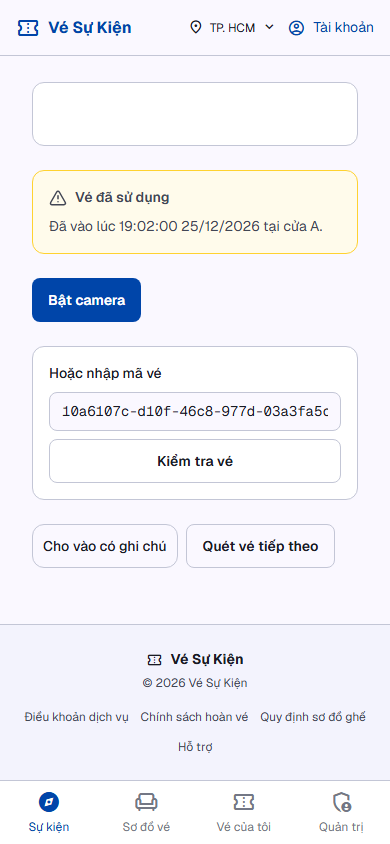
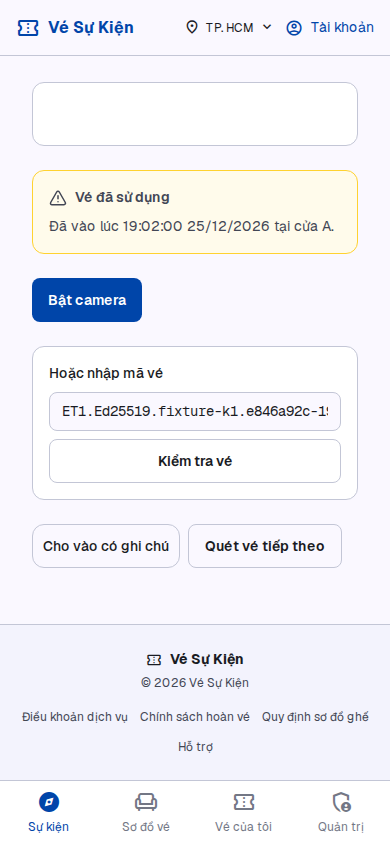
docs(S-31): record signed QR acceptance and device gates

diff --git a/docs/S31_EVIDENCE.md b/docs/S31_EVIDENCE.md
@@ -2,30 +2,43 @@
 
 Dependency S-30 signed `d423fa8d2e5143b07cd7158985776ef8ca740ce8` đã tích hợp. S-30 chưa merge: gate camera thật/ngoài trời còn thiếu. S-31 giữ Draft, chưa nghiệm thu toàn bộ, chưa merge/deploy.
 
+CI [37909249448](https://github.com/TTCS-T926-K19C5-N2/thudemo/actions/runs/37909249448) PASS trên **8e6374d45574ab06ed08e1d81619aa0030401526**:46 HTTP checks/50 races/27 browser checks. JSON và ảnh mới bên dưới cùng sourceSha này; commit bàn giao chỉ cập nhật evidence/docs, final-head CI/review được ghi ở PR64.
+
 ## Ma trận AC/NFR → implementation → test → kết quả → file/link → SHA
 
-| AC/NFR                                    | Implementation                         | Test mới                                                                                     | Kết quả                                                 | File/link                                  | Source SHA                           |
-| ----------------------------------------- | -------------------------------------- | -------------------------------------------------------------------------------------------- | ------------------------------------------------------- | ------------------------------------------ | ------------------------------------ |
-| AC1: A19:02 → B từ chối/metadata đầu      | lock NORMAL/firstAdmission             | real HTTP/session B, DB first/time check rồi fixture lịch sử                                 | PASS local                                              | verify-s31-http.mjs, CI artifact           | candidate merge; final CI SHA ở PR64 |
-| AC2: chỉ một máy hợp lệ                   | row lock + partial UNIQUE              | 50 vé mới ×2 API OS process/session/cửa, đọc DB mỗi lượt                                     | PASS local                                              | HTTP driver/report                         | như trên                             |
-| AC3: reason/tên nhân viên/lần vào bổ sung | approved scoped capability + EXCEPTION | same action concurrent2API, đúng1entry, identity/name/timeDB; first không đổi                | PASS local                                              | HTTP driver, PO decision                   | như trên                             |
-| Chữ ký NORMAL/EXCEPTION                   | cùng ScannerCryptoService              | unsigned real UUID, version/alg/kid/signature/payload sai; ticketId client; wrong showtime   | PASS local, không thêm history                          | HTTP driver; S-30 crypto unit13            | như trên                             |
-| Rotation/restart                          | persistent keys + public key ring      | new k2 QR NORMAL+EXCEPTION; old k1 vẫn verified/used sau restart                             | PASS local                                              | HTTP driver                                | như trên                             |
-| Retry/bấm đúp/lost response               | unique actor/request fingerprint       | same request concurrent; changed reason409; browser fault injection                          | HTTP PASS local; browser mới xem CI                     | drivers                                    | final head check ở PR                |
-| Rollback/consistency                      | ledger+state cùng TX                   | trigger failure sau insert; ledger0/stateNULL; direct duplicate rejected                     | PASS local                                              | HTTP driver/ledger migration               | như trên                             |
-| Permission/privacy                        | role+session+grant trước metadata      | unassigned ADMIN, wrong gate, BUYER, no/expired session, revoked override, forged actor/time | PASS local                                              | HTTP driver                                | như trên                             |
-| Eligibility/sau ngoại lệ                  | PAID + signed context + legacy veto    | unpaid/cancelled/unknown/wrong showtime; normal sau EXCEPTION vẫn409/first giữ nguyên        | PASS local                                              | HTTP driver                                | như trên                             |
-| Migration/compensation                    | 22migration thật/guard                 | deploy riêng, populated guard refuses                                                        | PASS deploy/guard; empty rollback chưa kiểm             | SQL template/HTTP driver                   | như trên                             |
-| V1 desktop/mobile/dialog/wait/error       | scanner dependency + existing Dialog   | browser real proxy/API/PG, 2staff contexts, focus/trap/contrast/touch, lost response retry   | Đợi CI exact head; evidence UUID cũ không được tái dùng | verify-s31-browser.mjs / s31-admission.yml | final head CI ở PR                   |
-| Camera vật lý / ngoài trời                | camera hiện hữu                        | chưa có người kiểm trên signed revision                                                      | CHƯA KIỂM — gate                                        | hướng dẫn dưới                             | —                                    |
-| Staging/deploy                            | không deploy                           | chưa chạy                                                                                    | CHƯA KIỂM                                               | —                                          | —                                    |
+| AC/NFR                                    | Implementation                         | Test mới                                                                                     | Kết quả                                     | File/link                                                         | Source SHA             |
+| ----------------------------------------- | -------------------------------------- | -------------------------------------------------------------------------------------------- | ------------------------------------------- | ----------------------------------------------------------------- | ---------------------- |
+| AC1: A19:02 → B từ chối/metadata đầu      | lock NORMAL/firstAdmission             | real HTTP/session B, DB first/time check rồi fixture lịch sử                                 | PASS local                                  | verify-s31-http.mjs, [HTTP JSON](../evidence/s31/http-proof.json) | 8e6374d                |
+| AC2: chỉ một máy hợp lệ                   | row lock + partial UNIQUE              | 50 vé mới ×2 API OS process/session/cửa, đọc DB mỗi lượt                                     | PASS local                                  | HTTP driver/report                                                | 8e6374d                |
+| AC3: reason/tên nhân viên/lần vào bổ sung | approved scoped capability + EXCEPTION | same action concurrent2API, đúng1entry, identity/name/timeDB; first không đổi                | PASS local                                  | HTTP driver, PO decision                                          | 8e6374d                |
+| Chữ ký NORMAL/EXCEPTION                   | cùng ScannerCryptoService              | unsigned real UUID, version/alg/kid/signature/payload sai; ticketId client; wrong showtime   | PASS local, không thêm history              | HTTP driver; S-30 crypto unit13                                   | 8e6374d                |
+| Rotation/restart                          | persistent keys + public key ring      | new k2 QR NORMAL+EXCEPTION; old k1 vẫn verified/used sau restart                             | PASS local                                  | HTTP driver                                                       | 8e6374d                |
+| Retry/bấm đúp/lost response               | unique actor/request fingerprint       | same request concurrent; changed reason409; browser fault injection                          | PASS local HTTP / CI HTTP+browser           | drivers                                                           | 8e6374d; final CI ở PR |
+| Rollback/consistency                      | ledger+state cùng TX                   | trigger failure sau insert; ledger0/stateNULL; direct duplicate rejected                     | PASS local                                  | HTTP driver/ledger migration                                      | 8e6374d                |
+| Permission/privacy                        | role+session+grant trước metadata      | unassigned ADMIN, wrong gate, BUYER, no/expired session, revoked override, forged actor/time | PASS local                                  | HTTP driver                                                       | 8e6374d                |
+| Eligibility/sau ngoại lệ                  | PAID + signed context + legacy veto    | unpaid/cancelled/unknown/wrong showtime; normal sau EXCEPTION vẫn409/first giữ nguyên        | PASS local                                  | HTTP driver                                                       | 8e6374d                |
+| Migration/compensation                    | 22migration thật/guard                 | deploy riêng, populated guard refuses                                                        | PASS deploy/guard; empty rollback chưa kiểm | SQL template/HTTP driver                                          | 8e6374d                |
+| V1 desktop/mobile/dialog/wait/error       | scanner dependency + existing Dialog   | browser real proxy/API/PG, 2staff contexts, focus/trap/contrast/touch, lost response retry   | PASS CI27 checks, console/runtime0          | verify-s31-browser.mjs / s31-admission.yml                        | 8e6374d; final CI ở PR |
+| Camera vật lý / ngoài trời                | camera hiện hữu                        | chưa có người kiểm trên signed revision                                                      | CHƯA KIỂM — gate                            | hướng dẫn dưới                                                    | —                      |
+| Staging/deploy                            | không deploy                           | chưa chạy                                                                                    | CHƯA KIỂM                                   | —                                                                 | —                      |
 
-Local candidate: DB riêng `127.0.0.1:15442/s31_signed_qr`, Redis16392; API3061/3062;22 migration deploy thật. 46 checks/50 races/151 measurements, p95≈34.11ms/max≈52.12ms loopback. Không thay staging/4G/camera hay NFR T-31. Node24.21.0/pnpm10.15.1. Build/lint/typecheck/unit228 PASS;4 warning cũ. Full integration dùng DB regression riêng15432 do task này tạo; xem kết quả exact head/CI ở PR.
+Local candidate: DB riêng `127.0.0.1:15442/s31_signed_qr`, Redis16392; API3061/3062;22 migration deploy thật. 46 checks/50 races/151 measurements, p95≈34.11ms/max≈52.12ms loopback. Không thay staging/4G/camera hay NFR T-31. Node24.21.0/pnpm10.15.1. Build/lint/typecheck/unit228 PASS;4 warning cũ. Full integration84 tests PASS trên DB regression riêng15432 do task này tạo, không dùng DB của task khác.
 
-Private keys/cookie fixtures ngoài checkout; artifact chỉ sanitized JSON/PNG. `evidence/s31/browser-proof.json` và ảnh từ59314d1 là lịch sử UUID cũ, không chứng minh contract mới. Candidate storage research vẫn tách biệt. HTTP report mới chứa sourceSha/driver hash; CI artifact đặt tên theo headSHA, không gọi working-tree report là exact committed test.
+Private keys/cookie fixtures ngoài checkout; artifact chỉ sanitized JSON/PNG. JSON/ảnh hiện tại đã thay bằng artifact ký thật8e6374d, giữ raw bytes/sourceSha. Evidence UUID59314d1 vẫn truy cập qua lịch sử Git, không dùng nghiệm thu mới. Candidate storage research vẫn tách biệt. HTTP report mới chứa sourceSha/driver hash; [HTTP JSON](../evidence/s31/http-proof.json) đặt tên theo headSHA, không gọi working-tree report là exact committed test.
 
 ## Tái chạy và kiểm thiết bị
 
 Migrate/generate/build trên đúng DB/Redis test riêng. Chạy HTTP driver với S31_FIXTURE_KEY_DIR và S31_PRIVATE_FIXTURE_FILE ngoài Git. CI dựng2API thật rồi web3060 proxy3061; driver browser dùng fixture phiên đã tạo, delay/abort chỉ là fault injection trên response thật.
 
 Camera gate: dùng thiết bị thật trên secure context với session được cấp suất/cửa. Mở QR ký của vé PAID thật qua trang đơn chủ vé; quay camera quét, kiểm ghế/cửa/time sau commit, đổi cửa quét lại metadata đầu, invalid/unsigned bị từ chối, mất mạng không xanh, >3s chờ. Thử dưới ánh sáng ngoài trời đọc text/icon và thao tác. Ghi thiết bị/OS/browser, SHA, điều kiện ánh sáng, kết quả/ảnh không cookie/QR khách. Ảnh/video fixture, mobile viewport hoặc camera giả không thay bằng chứng này.
+
+## Browser / audit
+
+![Desktop vé dùng](../evidence/s31/desktop-used.png)
+![Mobile vé dùng](../evidence/s31/mobile-used.png)
+![Mobile dialog](../evidence/s31/mobile-dialog.png)
+![Ngoại lệ](../evidence/s31/desktop-exception.png)
+
+Đã đọc ảnh desktop/mobile để đối chiếu V1. Warning contrast14.46:1, touch≥44px, focus/trap/Escape/live region, không runtime/console error bất thường. Image/typed signed fixture không thay camera thật.
+
+Run [37908667173](https://github.com/TTCS-T926-K19C5-N2/thudemo/actions/runs/37908667173) trên5cd1e2d: HTTP PASS nhưng browser FAIL vì driver nhầm retry cùng request thành lượt quét mới. Source và ảnh cho thấy ALREADY_RECORDED đúng. Commit8e6374d sửa giả định, giữ assertion replay và thêm assertion bấm Next tạo lượt mới phải USED; run37909249448 PASS. Không hạ assertion/tắt test.

diff --git a/docs/S31_GITHUB_HANDOFF.md b/docs/S31_GITHUB_HANDOFF.md
@@ -15,3 +15,5 @@ Exact merge/head SHA, actual push log, final CI runs và technical review URL đ
 Required main checks T-02 build/typecheck/lint/test; không sửa protection/assertion/workflow để làm xanh. Thêm workflow S31 signed admission: migration22/2API/50races/QRsignature/exception/real browserV1; artifact sanitized JSON+PNG. Review cũ f636 và26browser UUID không thay bằng chứng contract mới.
 
 WIP checkout chính được giữ bằng binary diff+SHA256 manifest1881files ở checkpoint ngoài Git. Mọi sửa trong worktree riêng; không reset/clean/database khác. Các container mới15442/16392 chỉ cho kiểm S-31 ký. [Implementation](S31_IMPLEMENTATION.md), [evidence](S31_EVIDENCE.md), [PO decision](S31_PERMISSION_DECISION.md) là nguồn bàn giao trong repo.
+
+Thao tác remote thật09/10/2026: Sang push snapshot d423fa8→dependency/S-30-pr68-d423fa8; push f63616b..5cd1e2d rồi5cd1e2d..8e6374d vào đúng story branch; retargetPR64 base mới, API xác nhận baseSHA=d423/head=8e. Log timestamp nằm ngoài Git để không chứa credential; các range ở đây lấy từ output push thật, không dựng lại lịch sử. Không retargetmain/chưa có mergeSHA S-30.

diff --git a/docs/S31_IMPLEMENTATION.md b/docs/S31_IMPLEMENTATION.md
@@ -30,4 +30,4 @@ Rollback application về S-30 signed head vẫn giữ ledger/grant/check first 
 
 ## REVIEW → VERIFY → PUBLISH
 
-[Ma trận](S31_EVIDENCE.md), [handoff](S31_GITHUB_HANDOFF.md). Local mới: 46 HTTP checks +50 real races/2processes, rotation/restart/rollback; build/lint/typecheck/unit228 PASS. CI browser phải thuộc head mới, không dùng26check UUID cũ. Camera/ngoài trời vẫn chờ, staging chưa kiểm. Không đóng issue, chuyển Ready hoặc gọi Done khi gate còn mở.
+[Ma trận](S31_EVIDENCE.md), [handoff](S31_GITHUB_HANDOFF.md). Local mới: 46 HTTP checks +50 real races/2processes, rotation/restart/rollback; build/lint/typecheck/unit228 PASS. CI signed8e6374d:46HTTP/50races/27browser PASS,84integration hồi quy local PASS. Final-head checks/review tham chiếu PR64, không dùng26check UUID cũ. Camera/ngoài trời vẫn chờ, staging chưa kiểm. Không đóng issue, chuyển Ready hoặc gọi Done khi gate còn mở.
